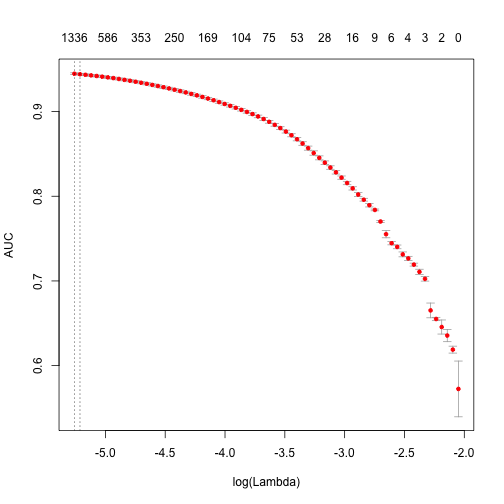
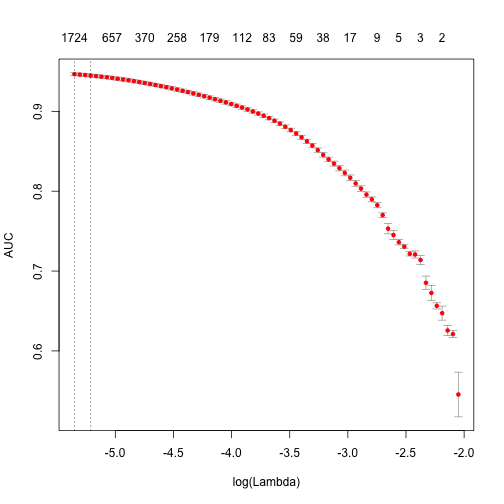
fixing mistakes in my english

diff --git a/_posts/2015-11-09-text2vec.md b/_posts/2015-11-09-text2vec.md
@@ -6,20 +6,20 @@ title: 'Analyzing texts with text2vec package.'
 author: "Dmitriy Selivanov"
 date: "09.11.2015"
 ---
-Last weeks I actively worked on [text2vec](https://github.com/dselivanov/text2vec) (formerly tmlite) - R package, which provides tools for fast text vectorization and state-of-the art word embeddings. 
+In the last weeks I have actively worked on [text2vec](https://github.com/dselivanov/text2vec) (formerly tmlite) - R package, which provides tools for fast text vectorization and state-of-the art word embeddings. 
 
-This project is an experiment for me - what can single person do in a particular area? After these hard weeks, I believe, he can a lot.
+This project is an experiment for me - what can a single person do in a particular area? After these hard weeks, I believe, he can do a lot.
 
-There are a lot of changes from my previous [introduction post](http://dsnotes.com/blog/2015/09/16/tmlite-intro/), but I want to highlight few of them:
+There are a lot of changes from my previous [introduction post](http://dsnotes.com/blog/2015/09/16/tmlite-intro/), and I want to highlight few of them:
 
-- Package was renamed to **text2vec**, because, I beleive, this name better reflects its functionality.
+- Package was renamed to **text2vec**, because, I believe, this name better reflects its functionality.
 - **New API**. More clean, more concise. 
-- **GloVe** word embeddings. Training is **fully paralelized** - asyncronious SGD with adaptive learning rate (AdaGrad). **Works on all platforms, including windows.**
+- **GloVe** word embeddings. Training is **fully parallelized** - asynchronous SGD with adaptive learning rate (AdaGrad). **Works on all platforms, including windows.**
 - Added **ngram** feature to vectorization. Now it is very easy to build *Document-Term matrix*, using arbitrary `ngrams` instead of simple `unigrams`.
-- Switched to `MurmurHash3` for **feature hashing** and add `signed_hash` option, which can [reduce effect of collisions](https://en.wikipedia.org/wiki/Feature_hashing#Feature_vectorization_using_the_hashing_trick).
-- Now text2vec uses regular exressions engine from `stringr` package (which is build on top of `stringi`). Now `regexp_tokenizer` much more fast and robust.
+- Switched to `MurmurHash3` for **feature hashing** and add `signed_hash` option, which can [reduce the effect of collisions](https://en.wikipedia.org/wiki/Feature_hashing#Feature_vectorization_using_the_hashing_trick).
+- Now text2vec uses regular exressions engine from `stringr` package (which is built on top of `stringi`). Now `regexp_tokenizer` much is more fast and robust.
 
-In this post I'll focus on text vectorization tools provided by [text2vec](https://github.com/dselivanov/text2vec). Also, it will be a base for `text2vec` vignette. I'll write another post about [GloVe](http://nlp.stanford.edu/projects/glove/) next week, don't miss it. 
+In this post I'll focus on text vectorization tools provided by [text2vec](https://github.com/dselivanov/text2vec). Also, it will be a base for a `text2vec` vignette. I'll write another post about [GloVe](http://nlp.stanford.edu/projects/glove/) next week, don't miss it. 
 
 Plese, don't forgive to install `text2vec` first:
 
@@ -29,7 +29,7 @@ devtools::install_github('dselivanov/text2vec')
 
 # Features
 
-**text2vec** is a package which main goal is to provide **efficient framework** with **concise API** for **text analysis** and **natural language processing (NLP)** in R. It is inspired by [gensim](http://radimrehurek.com/gensim/) - excellent python library for NLP.
+**text2vec** is a package for which the main goal is to provide an **efficient framework** with **concise API** for **text analysis** and **natural language processing (NLP)** in R. It is inspired by [gensim](http://radimrehurek.com/gensim/) - an excellent python library for NLP.
 
 ## Core functionality
 
@@ -42,26 +42,30 @@ At the moment we cover two following topics:
 
 ## Efficiency  
 
-- Core of the functionality is **carefully written in C++**. Also this means text2vec is **memory friendly**.
-- Some parts (GloVe training) are fully **parallelized** using excellent [RcppParallel](http://rcppcore.github.io/RcppParallel/) package. This means, **parallel features works on OS X, Linux, Windows and Solaris(x86) without any additinal tuning/hacking/tricks**.
-- **Streaming API**, this means users don't have to load all the data into RAM. **text2vec** allows to process stream of chunks.
+- The core of the functionality is **carefully written in C++**. Also this means text2vec is **memory friendly**.
+- Some parts (GloVe training) are fully **parallelized** using an excellent [RcppParallel](http://rcppcore.github.io/RcppParallel/) package. This means, **parallel features work on OS X, Linux, Windows and Solaris(x86) without any additinal tuning/hacking/tricks**.
+- **Streaming API**, this means users don't have to load all the data into RAM. **text2vec** allows processing streams of chunks.
 
 ## API
 
-- Build around [iterator](https://en.wikipedia.org/wiki/Iterator) abstraction.
-- Concise, provides only few functions, which do their job well.
+- Built around [iterator](https://en.wikipedia.org/wiki/Iterator) abstraction.
+- Concise, provides only a few functions, which do their job well.
 - Don't (and probably will not in future) provide trivial very high-level functions.
 
 # Terminology and what is under the hood
 
-As stated before, text2vec is built around streaming API and **iterators**, which allows to construct **corpus** from *iterable* objects. Here we touched 2 main concepts:
+As stated before, text2vec is built around streaming API and **iterators**, which allows the constructin of the **corpus** from *iterable* objects. Here we touched 2 main concepts:
 
 1. **Corpus**.  In text2vec it is an object, which contains tokens and other information / metainformation which is used for text vectorization and other processing. We can be efficiently insert documents into corpus, because,  technically, **Corpus** is an C++ class, wrapped with *Rcpp-modules* as *reference class* (which has reference semantics!). Usually user should not care about this, but should keep in mind nature of such objects. Particularly important, that user have to remember, that he can't save/serialize such objects using R's `save*()` methods. But good news is that he can easily and efficiently extract corresponding R objects from corpus and work with them in a usual way.
-1. **Iterators**. If you are not familliar with them in `R's` context, I highly recommend to review vignettes of [iterators](https://cran.r-project.org/web/packages/iterators/) package. A big advantage of this abstraction is that  it allows us to be **agnostic of type of input** - we can transparently change it just providing correct iterator.
+1. **Iterators**. If you are not familliar with them in `R's` context, I highly recommend to review vignettes of [iterators](https://cran.r-project.org/web/packages/iterators/) package. A big advantage of this abstraction is that  it allows us to be **agnostic of type of input** - we can transparently change it by just providing correct iterator.
 
 # Text vectorization
 
-Historically, most of the text-mining and NLP modelling is related to [Bag-of-words](https://en.wikipedia.org/wiki/Bag-of-words_model) or [Bag-of-ngrams](https://en.wikipedia.org/wiki/N-gram). Despite of simplicity these models usually demonstrates good performance on text categorization/classification tasks. But, in contrast to theoretical simplicity and practical efficiency, building *bag-of-words* models involves technical challenges (especially within `R` framework, because of its typical copy-on-modify semantics). Lets briefly review some details of typical analysis pipeline:
+Historically, most of the text-mining and NLP modelling was related to [Bag-of-words](https://en.wikipedia.org/wiki/Bag-of-words_model) or [Bag-of-ngrams](https://en.wikipedia.org/wiki/N-gram) models. Despite of simplicity, these models usually demonstrates good performance on text categorization/classification tasks. But, in contrast to theoretical simplicity and practical efficiency, building *bag-of-words* models involves technical challenges. Especially within `R` framework, because of its typical copy-on-modify semantics. 
+
+## Pipeline 
+
+Lets briefly review some details of typical analysis pipeline:  
 
 1. Usually reseacher have to construct [Document-Term matrix](https://en.wikipedia.org/wiki/Document-term_matrix) (DTM) from imput documents. Or in other words, **vectorize text** - create mapping from words/ngrams to [vector space](https://en.wikipedia.org/wiki/Vector_space_model).
 1. Fit model on this DTM. This can include:
@@ -71,7 +75,7 @@ Historically, most of the text-mining and NLP modelling is related to [Bag-of-wo
 1. Tune, validate model.
 1. Apply model on new data.
 
-Here we will discuss mostly first stage. Underlying texts can take a lot of space, but vectorized ones usually not, because they are stored in form of sparse matrices. In R it is not very easy (from reason above) to iteratively grow DTM. So construction of such objects, even for small collections of documents, can become serious hedache for analysts and researchers. It involves reading collection of text documents into RAM and process it as single vector, which easily increase memory consumption by factor of 2 to 4 (to tell the truth, this is quite optimistically). Fortunately, there is a better, text2vec way. Lets check how it works on simple example.
+Here we will discuss mostly first stage. Underlying texts can take a lot of space, but vectorized ones usually not, because they are stored in form of sparse matrices. In R it is not very easy (from reason above - copy-on-modify semantics) to iteratively grow DTM. So construction of such objects, even for small collections of documents, can become serious hedache for analysts and researchers. It involves reading the whole collection of text documents into RAM and process it as single vector, which easily increase memory consumption by factor of 2 to 4 (to tell the truth, this is quite optimistically). Fortunately, there is a better, text2vec way. Lets check how it works on simple example.
 
 ## Sentiment analysis on IMDB moview review dataset
 **text2vec** provides `movie_review` dataset. It consists of 25000 movie review, each of which marked ad positive or negative.
@@ -109,7 +113,7 @@ print( difftime( Sys.time(), t1, units = 'sec'))
 
 
 {% highlight text %}
-## Time difference of 3.763476 secs
+## Time difference of 3.611464 secs
 {% endhighlight %}
 
 
@@ -161,7 +165,7 @@ print( difftime( Sys.time(), t1, units = 'sec'))
 
 
 {% highlight text %}
-## Time difference of 33.88329 secs
+## Time difference of 35.2681 secs
 {% endhighlight %}
 
 
@@ -179,7 +183,7 @@ print (paste("max AUC = ", round(max(fit$cvm), 4)))
 
 
 {% highlight text %}
-## [1] "max AUC =  0.9447"
+## [1] "max AUC =  0.9465"
 {% endhighlight %}
 
 Note, that training time is quite high. We can reduce it and also significantly improve accuracy.
@@ -250,7 +254,7 @@ print( difftime( Sys.time(), t1, units = 'sec'))
 
 
 {% highlight text %}
-## Time difference of 19.75058 secs
+## Time difference of 18.84337 secs
 {% endhighlight %}
 
 
@@ -268,7 +272,7 @@ print (paste("max AUC = ", round(max(fit$cvm), 4)))
 
 
 {% highlight text %}
-## [1] "max AUC =  0.9496"
+## [1] "max AUC =  0.9501"
 {% endhighlight %}
 
 As you can seem we obtain faster training, and larger AUC.
@@ -292,7 +296,7 @@ print( difftime( Sys.time(), t1, units = 'sec'))
 
 
 {% highlight text %}
-## Time difference of 23.49954 secs
+## Time difference of 23.82878 secs
 {% endhighlight %}
 
 
@@ -312,7 +316,7 @@ print( difftime( Sys.time(), t1, units = 'sec'))
 
 
 {% highlight text %}
-## Time difference of 35.37056 secs
+## Time difference of 35.42155 secs
 {% endhighlight %}
 
 
@@ -364,7 +368,7 @@ print( difftime( Sys.time(), t1, units = 'sec'))
 
 
 {% highlight text %}
-## Time difference of 26.98738 secs
+## Time difference of 28.11165 secs
 {% endhighlight %}
 
 
@@ -382,7 +386,7 @@ print (paste("max AUC = ", round(max(fit$cvm), 4)))
 
 
 {% highlight text %}
-## [1] "max AUC =  0.9575"
+## [1] "max AUC =  0.9582"
 {% endhighlight %}
 
 So improved our model a little bit more. Now, I'm leaving further tuning for the reader.
@@ -409,7 +413,7 @@ print( difftime( Sys.time(), t1, units = 'sec'))
 
 
 {% highlight text %}
-## Time difference of 13.98819 secs
+## Time difference of 13.07829 secs
 {% endhighlight %}
 
 
@@ -461,7 +465,7 @@ print( difftime( Sys.time(), t1, units = 'sec'))
 
 
 {% highlight text %}
-## Time difference of 59.44239 secs
+## Time difference of 58.25234 secs
 {% endhighlight %}
 
 
@@ -479,7 +483,7 @@ print (paste("max AUC = ", round(max(fit$cvm), 4)))
 
 
 {% highlight text %}
-## [1] "max AUC =  0.9469"
+## [1] "max AUC =  0.9481"
 {% endhighlight %}
 
 As you can see, we got a little bit worse AUC, but DTM construction time was considerably lower. On large collections of documents this can become a serious argument.
